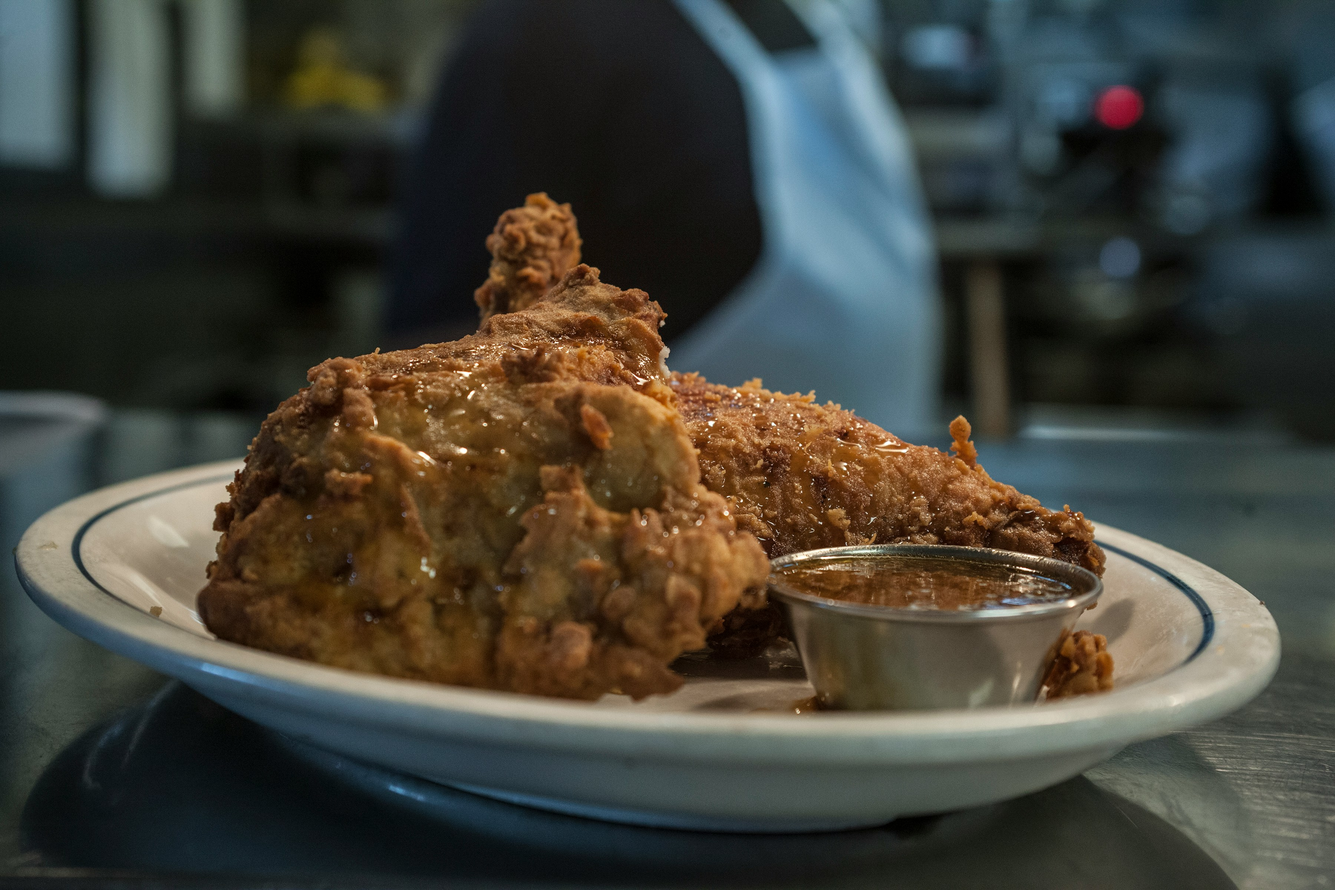
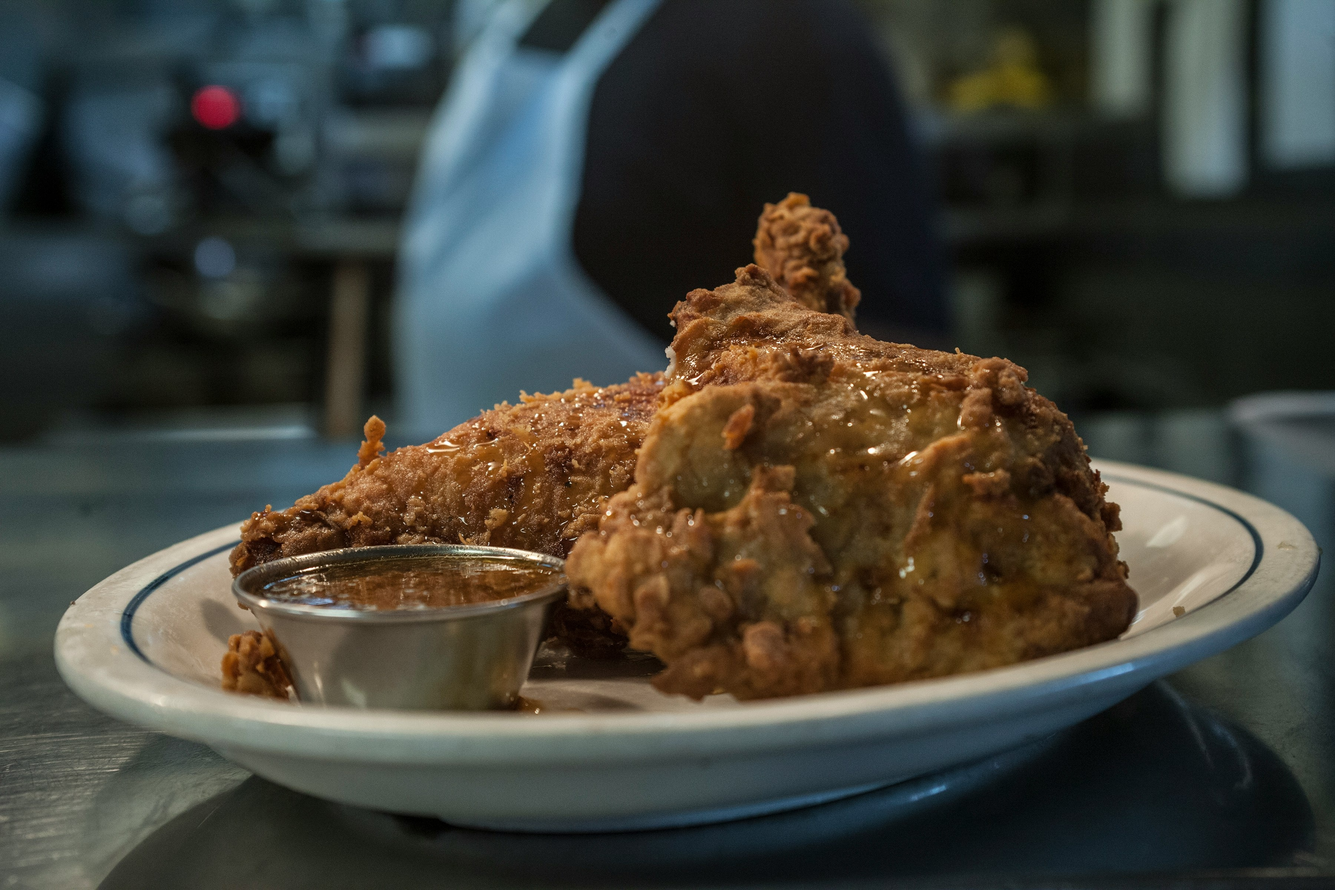
update website

diff --git a/style.css b/style.css
@@ -1,5 +1,5 @@
 :root {
-  --primary: #d07922cf;
+  --primary: #d07922;
   --bg: #010101;
 }
 
@@ -34,7 +34,8 @@ body {
 .hero {
   min-height: 100vh;
   display: flex;
-  align-items: center;
+  align-items: flex-start;
+  padding-top: 120px;
   background-image: url("img/ayam_hero.jpg");
   background-repeat: no-repeat;
   background-size: cover;
@@ -52,7 +53,7 @@ body {
 }
 
 .hero .content {
-  padding: 23px 7%;
+  padding: 17px 7%;
   max-width: 840px;
 }
 
